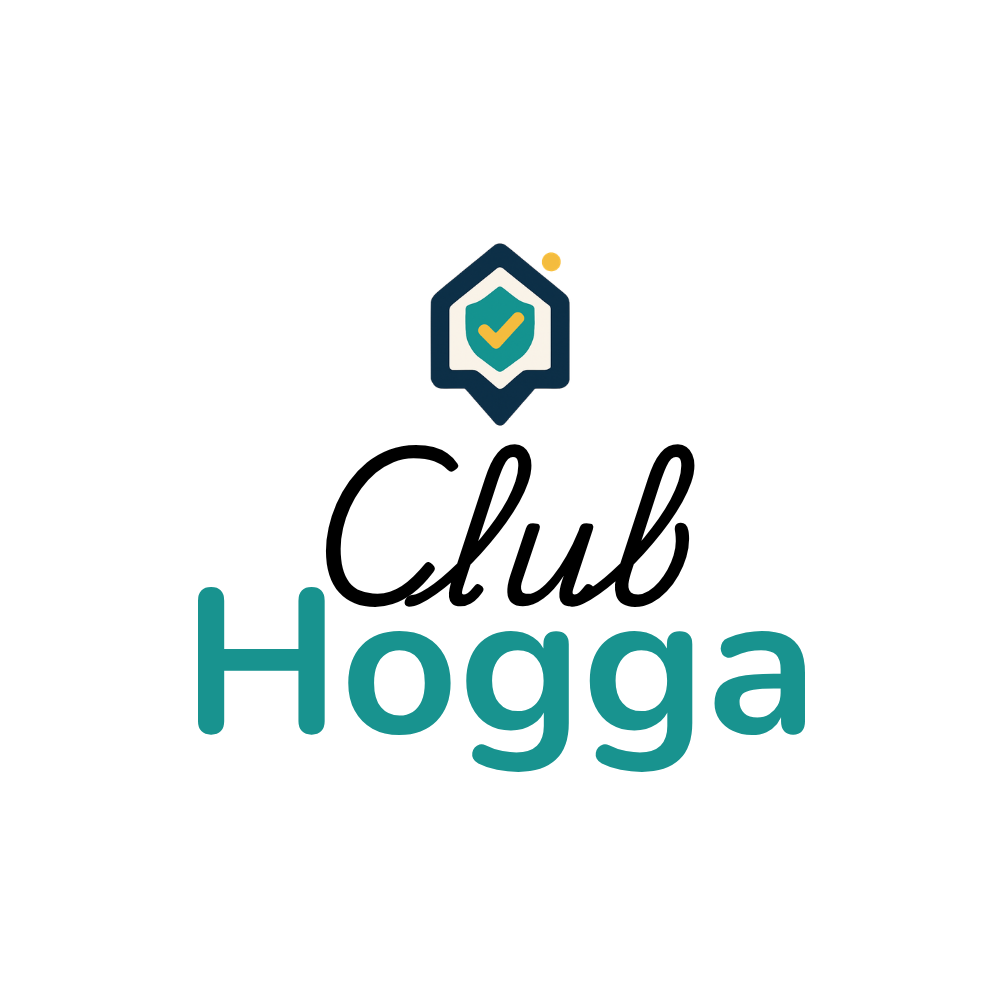
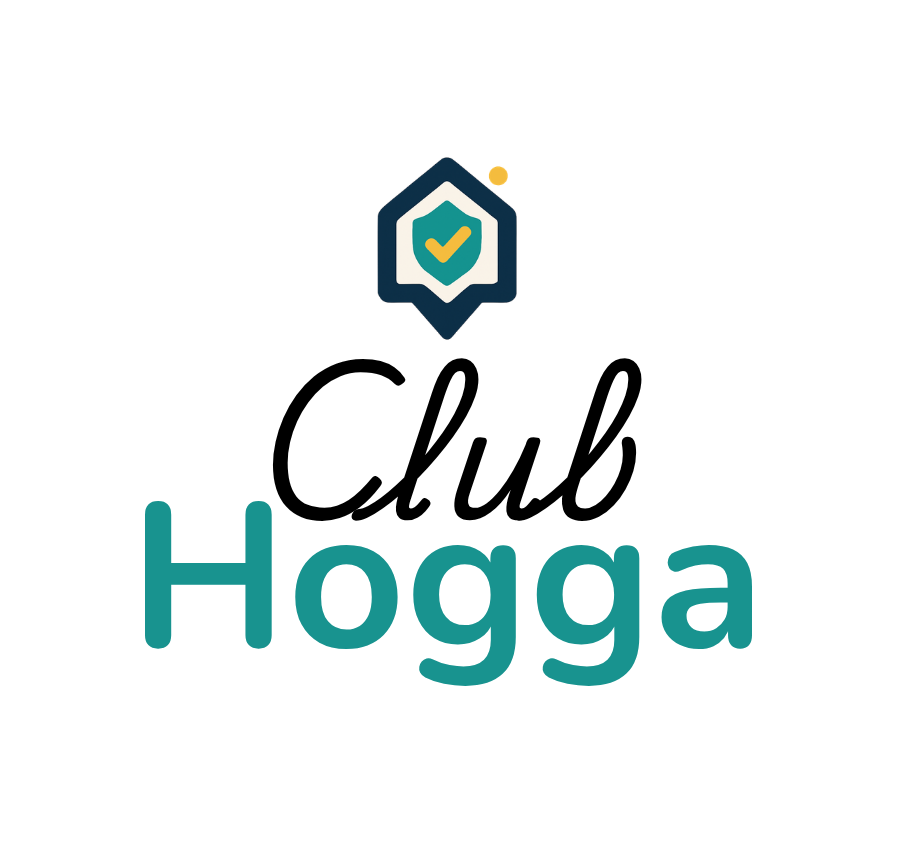
changes to admin v9

Changed region(s): [[0.155, 0.1853, 0.8372, 0.8337]]

diff --git a/babeclubadm/index.html b/babeclubadm/index.html
@@ -2677,19 +2677,23 @@ Después de esa fecha vuelve al beneficio regular — así que no lo dejes pasar
         cta_url: ''
       },
       pending_recovery: {
-        subject: '{nombre}, te faltó un solo paso para activar tu membresía',
-        heading: 'Tu descuento está casi listo',
+        subject: 'Te faltó un paso para activar tus beneficios 👀',
+        heading: 'Quedaste a un paso, {nombre}',
         body: `Hola {nombre},
 
-Hace un par de días registraste tus datos en Club Hogga — gracias por el interés.
+Quedaste a un paso de activar tu membresía en Club Hogga 🙌
 
-Notamos que el proceso quedó incompleto antes de confirmar el pago. Puede haber pasado cualquier cosa, así que te lo recordamos.
+El registro ya lo hiciste, solo falta confirmar el pago y listo — empiezas a usar tus beneficios altiro.
 
-Unirte toma menos de 2 minutos, y desde el primer día puedes usar tu descuento en toda nuestra red de comercios aliados en Puerto Varas. Sin tarjetas físicas, sin apps — solo tu RUT al pagar.
+Usarlo es simple: vas al local, dices que eres socio y dictas tu RUT. En segundos te validan y te aplican el descuento.
 
-El precio de lanzamiento de $2.990/mes está disponible por tiempo limitado. Cuando se agoten los cupos, sube.
+Ya hay comercios en Puerto Varas donde puedes empezar a usarlo desde hoy.
 
-Si tuviste algún problema en el proceso, responde este correo y te ayudamos.`,
+Mientras antes lo actives, antes empiezas a ahorrar.
+
+El precio de lanzamiento de $2.990/mes sigue disponible, pero es por cupos limitados.
+
+Si tuviste algún problema en el proceso, respóndenos y lo vemos contigo.`,
         cta_text: 'Completar mi suscripción',
         cta_url: 'TU_LINK_MERCADOPAGO_AQUI'
       },

diff --git a/functions/api/webhook-mercadopago.js b/functions/api/webhook-mercadopago.js
@@ -171,7 +171,7 @@ export async function onRequestPost({ request, env }) {
           <div style="font-family: -apple-system, BlinkMacSystemFont, 'Segoe UI', Roboto, Helvetica, Arial, sans-serif; max-width: 500px; margin: 0 auto; color: #1e293b; background-color: #ffffff; border: 1px solid #e2e8f0; border-radius: 12px; overflow: hidden; box-shadow: 0 4px 6px -1px rgba(0, 0, 0, 0.1);">
             <!-- Header -->
             <div style="background-color: #f8fafc; padding: 30px 20px; text-align: center; border-bottom: 1px solid #e2e8f0;">
-              <img src="https://club.hogga.cl/images/club.png" alt="Club Hogga Logo" style="height: 48px; margin-bottom: 0;">
+              <img src="https://club.hogga.cl/images/club.png" alt="Club Hogga Logo" style="height: 80px; margin-bottom: 0;">
             </div>
             <!-- Body -->
             <div style="padding: 30px 24px;">

diff --git a/functions/api/admin-broadcast-partners.js b/functions/api/admin-broadcast-partners.js
@@ -57,7 +57,7 @@ export async function onRequestPost({ request, env }) {
       const personalizedHeading = heading.replace(/\{empresa\}/gi, businessName || 'aliado');
       return `<div style="font-family:-apple-system,BlinkMacSystemFont,'Segoe UI',Roboto,Helvetica,Arial,sans-serif;max-width:500px;margin:0 auto;color:#1e293b;background:#fff;border:1px solid #e2e8f0;border-radius:12px;overflow:hidden;box-shadow:0 4px 6px -1px rgba(0,0,0,.1)">
   <div style="background:#f8fafc;padding:30px 20px;text-align:center;border-bottom:1px solid #e2e8f0">
-    <img src="https://club.hogga.cl/images/club.png" alt="Club Hogga" style="height:48px">
+    <img src="https://club.hogga.cl/images/club.png" alt="Club Hogga" style="height:80px">
   </div>
   <div style="padding:30px 24px">
     <h2 style="color:#0a2e46;font-size:22px;margin-top:0;margin-bottom:16px">${personalizedHeading}</h2>

diff --git a/functions/api/admin-broadcast.js b/functions/api/admin-broadcast.js
@@ -58,7 +58,7 @@ export async function onRequestPost({ request, env }) {
       const personalizedBody = safeBody.replace(/\{nombre\}/gi, firstName || 'Socio');
       return `<div style="font-family:-apple-system,BlinkMacSystemFont,'Segoe UI',Roboto,Helvetica,Arial,sans-serif;max-width:500px;margin:0 auto;color:#1e293b;background:#fff;border:1px solid #e2e8f0;border-radius:12px;overflow:hidden;box-shadow:0 4px 6px -1px rgba(0,0,0,.1)">
   <div style="background:#f8fafc;padding:30px 20px;text-align:center;border-bottom:1px solid #e2e8f0">
-    <img src="https://club.hogga.cl/images/club.png" alt="Club Hogga" style="height:48px">
+    <img src="https://club.hogga.cl/images/club.png" alt="Club Hogga" style="height:80px">
   </div>
   <div style="padding:30px 24px">
     <h2 style="color:#0a2e46;font-size:22px;margin-top:0;margin-bottom:16px">${heading}</h2>

diff --git a/functions/api/admin-send-welcome.js b/functions/api/admin-send-welcome.js
@@ -51,7 +51,7 @@ export async function onRequestPost({ request, env }) {
       <div style="font-family: -apple-system, BlinkMacSystemFont, 'Segoe UI', Roboto, Helvetica, Arial, sans-serif; max-width: 500px; margin: 0 auto; color: #1e293b; background-color: #ffffff; border: 1px solid #e2e8f0; border-radius: 12px; overflow: hidden; box-shadow: 0 4px 6px -1px rgba(0, 0, 0, 0.1);">
         <!-- Header -->
         <div style="background-color: #f8fafc; padding: 30px 20px; text-align: center; border-bottom: 1px solid #e2e8f0;">
-          <img src="https://club.hogga.cl/images/club.png" alt="Club Hogga Logo" style="height: 48px; margin-bottom: 0;">
+          <img src="https://club.hogga.cl/images/club.png" alt="Club Hogga Logo" style="height: 80px; margin-bottom: 0;">
         </div>
         <!-- Body -->
         <div style="padding: 30px 24px;">

diff --git a/test-resend.js b/test-resend.js
@@ -24,7 +24,7 @@ const emailHtml = `
   <div style="font-family: -apple-system, BlinkMacSystemFont, 'Segoe UI', Roboto, Helvetica, Arial, sans-serif; max-width: 500px; margin: 0 auto; color: #1e293b; background-color: #ffffff; border: 1px solid #e2e8f0; border-radius: 12px; overflow: hidden; box-shadow: 0 4px 6px -1px rgba(0, 0, 0, 0.1);">
     <!-- Header -->
     <div style="background-color: #f8fafc; padding: 30px 20px; text-align: center; border-bottom: 1px solid #e2e8f0;">
-      <img src="https://club.hogga.cl/images/club.png" alt="Club Hogga Logo" style="height: 48px; margin-bottom: 0;">
+      <img src="https://club.hogga.cl/images/club.png" alt="Club Hogga Logo" style="height: 80px; margin-bottom: 0;">
     </div>
     <!-- Body -->
     <div style="padding: 30px 24px;">
